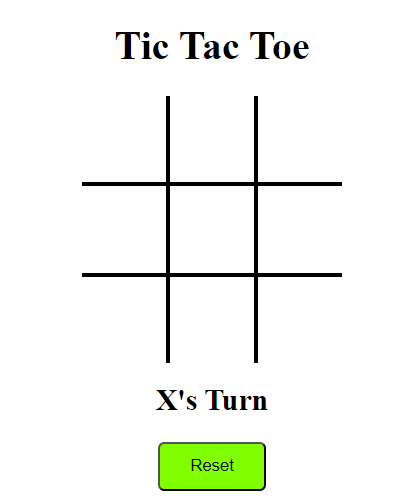
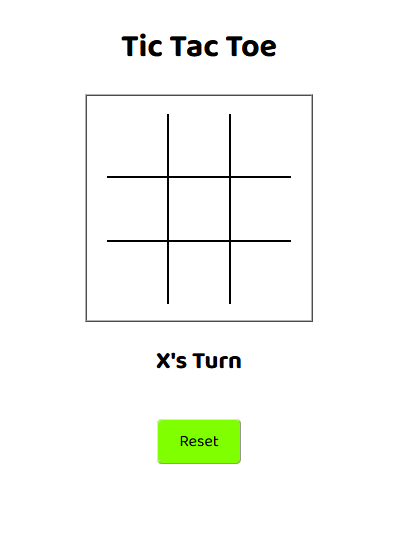
fixed leaderboard css

Changed region(s): [[0.1796, 0.1491, 0.8379, 0.7157], [0.3591, 0.7753, 0.6584, 0.9841], [0.2693, 0.0596, 0.7481, 0.1193]]

diff --git a/tictactoe.js b/tictactoe.js
@@ -146,19 +146,21 @@ function getLeaderboard() {
             let oWins = leaderboardStats['O Wins'];
 
             document.getElementById("leaderboard").innerHTML = `
-                <h2>Session Leaderboard</h1>
                 <table>
-                    <tr> 
-                        <th>Ties</th>
-                        <td>${ties}</td>
+                    <tr class="title-row">
+                        <th colspan="2">Session Leaderboard</th>
                     </tr>
                     <tr> 
-                        <th>X Wins</th>
-                        <td>${xWins}</td>
+                        <th class="ties">Ties</th>
+                        <td class="ties">${ties}</td>
                     </tr>
                     <tr> 
-                        <th>O Wins</th>
-                        <td>${oWins}</td>
+                        <th class="x-wins">X Wins</th>
+                        <td class="x-wins">${xWins}</td>
+                    </tr>
+                    <tr> 
+                        <th class="o-wins">O Wins</th>
+                        <td class="o-wins">${oWins}</td>
                     </tr>
                 </table>
             `;

diff --git a/styles.css b/styles.css
@@ -1,3 +1,9 @@
+body{
+    font-family: 'Baloo 2', cursive;
+    font-size: large;
+    
+}
+
 h1 {
     text-align: center;
 }
@@ -22,6 +28,12 @@ h2{
     display: flex;
     flex-wrap: wrap;
     justify-content: center;
+    padding: 20px;
+    border: ridge black;
+}
+
+#leaderboard {
+    padding-bottom: 20px;
 }
 
 button{
@@ -32,26 +44,28 @@ button{
     justify-content: center;
     padding: 10px 24px;
     border-radius: 5px;
-}
-
-#leaderboard{
-    display: flex;
-    margin: 0 auto;
-    background-color: chartreuse;
-    text-align: center;
-    justify-content: center;
-    padding: 10px 24px;
-    border-radius: 5px;
+    font-size: large;
+    font-family: 'Baloo 2', cursive;
 }
 
 table {
-    display: flex;
     margin: 0 auto;
-    background-color: chartreuse;
-    text-align: left;
-    justify-content: center;
-    padding: 10px 24px;
-    border-radius: 5px;
-    border: 1px solid;
+    border-collapse: collapse;
+    box-shadow: 0 2px 5px rgba(0, 0, 0, 0.1);
 }
+
+th, td {
+    padding: 12px 15px;
+    border: 1px solid #000000;
+    text-align: center;
+}
+
+.x-wins {
+    color: blue;
+}
+
+.o-wins {
+    color: red;
+}
+
 

diff --git a/index.php b/index.php
@@ -8,14 +8,15 @@
   <link rel="stylesheet" href="styles.css">
   <script src="tictactoe.js"></script>
   <script src="https://kit.fontawesome.com/6196ed5ba2.js" crossorigin="anonymous"></script>
+  <link href="https://fonts.googleapis.com/css2?family=Baloo+2:wght@400;700&display=swap" rel="stylesheet">
 </head>
 
   <body>
+    <div id=container>
     <h1>
       Tic Tac Toe
     </h1>
     <div id="board">
-
     </div>
     <h2>
       <span id="message"></span>
@@ -24,6 +25,8 @@
     <button onclick="resetGame()">
       Reset
     </button>
+    </div>
+    
   </body>
 
 

diff --git a/docs/design_system.md b/docs/design_system.md
@@ -1,10 +1,10 @@
 #Design System
 
-This Document outlines the design system for CSI3140 Assignment 2 (TicTacToe Game)
+This Document outlines the design system for CSI3140 Assignment 3 (TicTacToe Game)
 
 ##Fonts
 
--**Primary Font:** Times new roman is used for all text within our TicTacToe game
+-**Primary Font:** Baloo 2 is used for all text within our TicTacToe game
 
 ##Colour
 
@@ -12,7 +12,7 @@ This Document outlines the design system for CSI3140 Assignment 2 (TicTacToe Gam
 
 -**Secondary Colours:** Chartreuse, RGB(127, 255, 0), is used for our game RESET button. 
 Red (#ff0000) and Blue (#0000ff) are used for the X and O tiles respectively, and Green (#08000)
-is used to indicate winning tiles when a player wins.
+is used to indicate winning tiles when a player wins. Red and blue are also used for the scoreboard.
 
 ##Components
 
